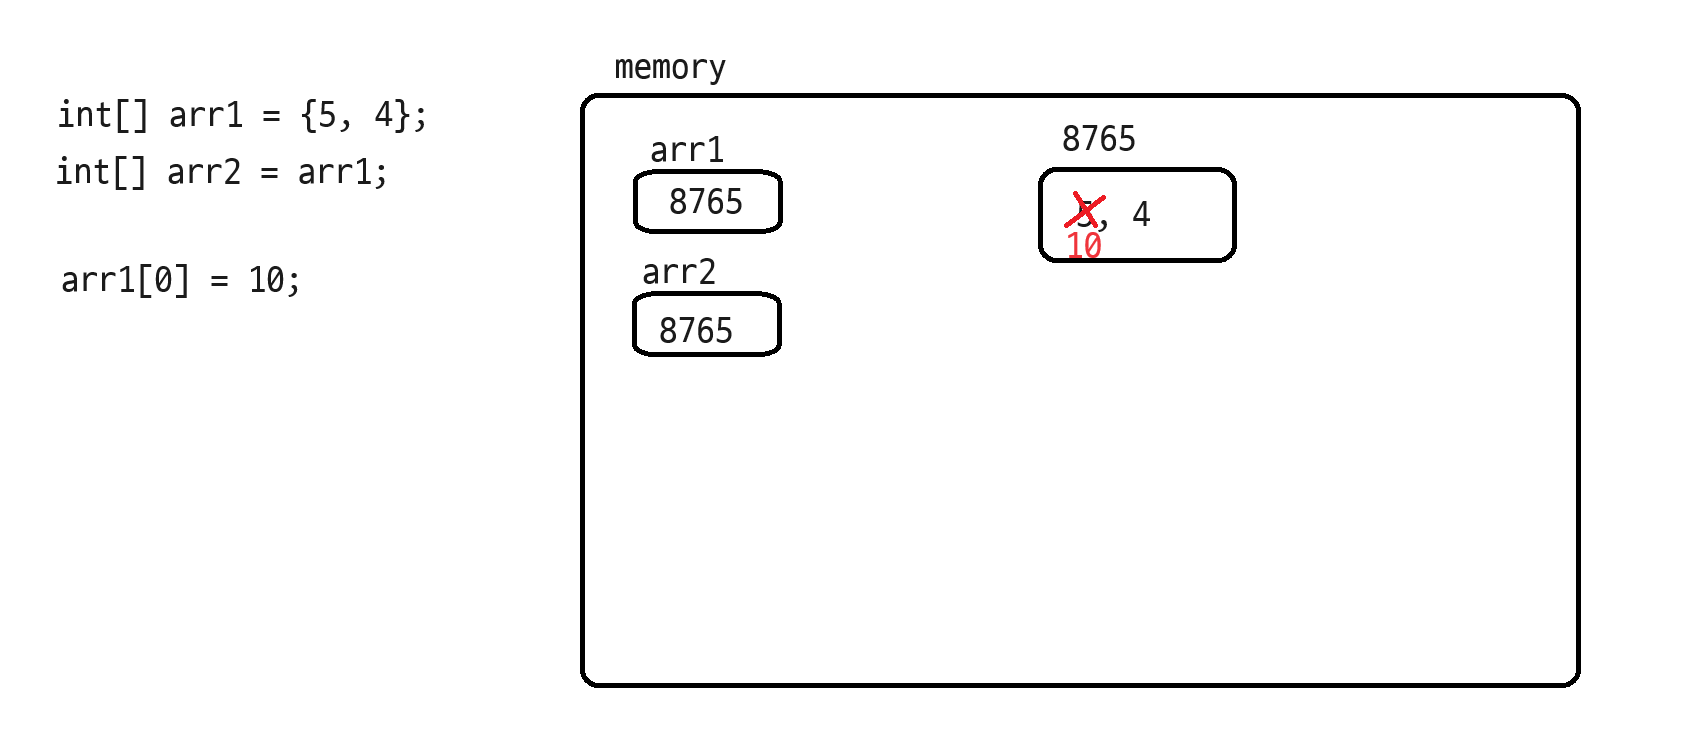
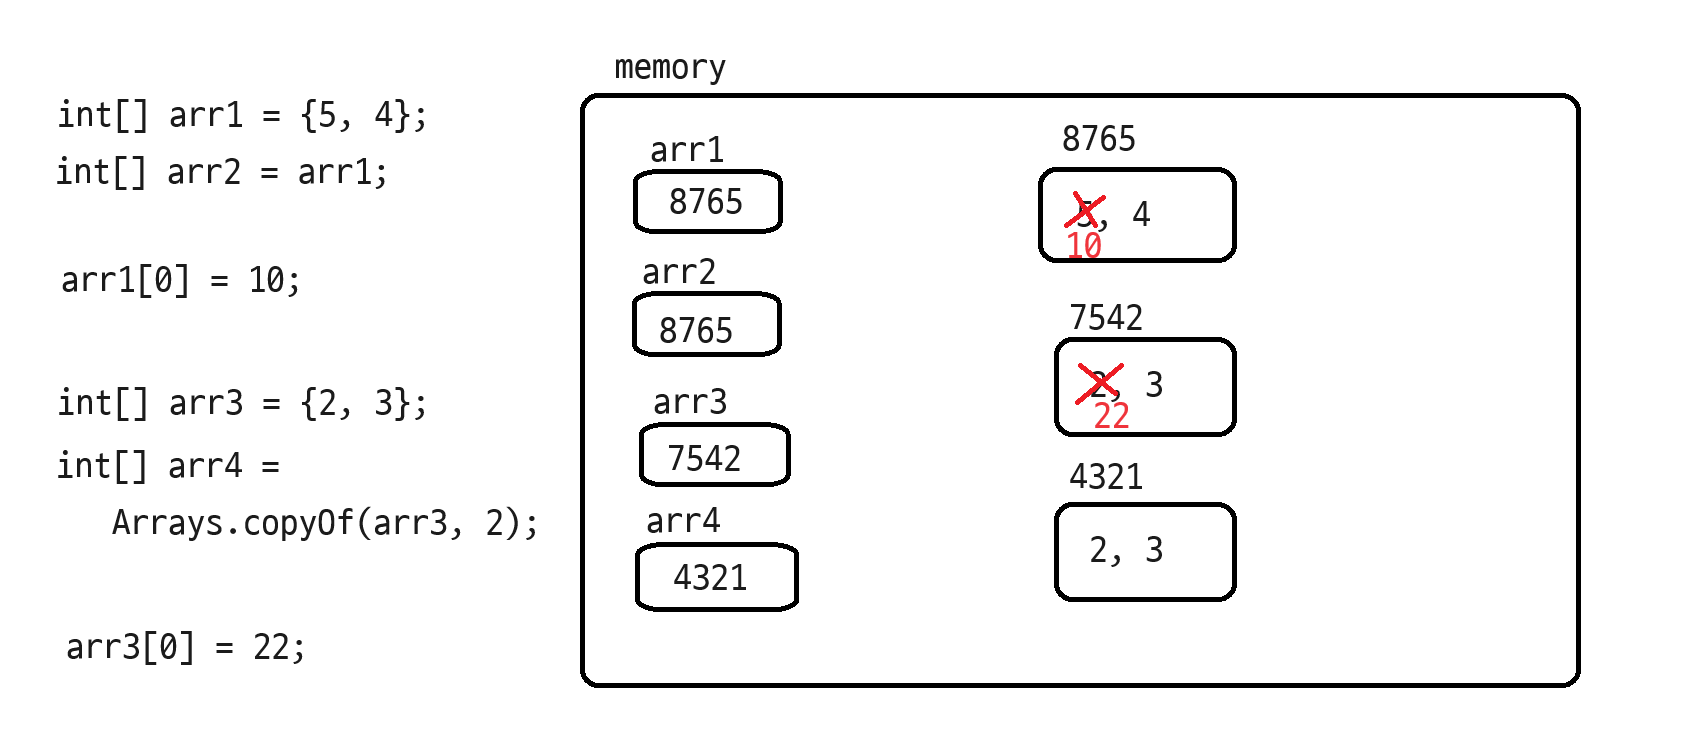
참조타입 설명 (배열 복사)

diff --git a/src/ch05/lecture/p1array/C13Reference.java b/src/ch05/lecture/p1array/C13Reference.java
@@ -13,5 +13,19 @@ public class C13Reference {
         System.out.println(Arrays.toString(arr1));
         System.out.println(Arrays.toString(arr2)); // [10, 4]
 
+        System.out.println(System.identityHashCode(arr1));
+        System.out.println(System.identityHashCode(arr2));
+
+        int[] arr3 = {2, 3};
+        int[] arr4 = Arrays.copyOf(arr3, 2);
+
+        System.out.println(System.identityHashCode(arr3));
+        System.out.println(System.identityHashCode(arr4));
+
+        arr3[0] = 22;
+
+        System.out.println(Arrays.toString(arr3));
+        System.out.println(Arrays.toString(arr4));
+
     }
 }
